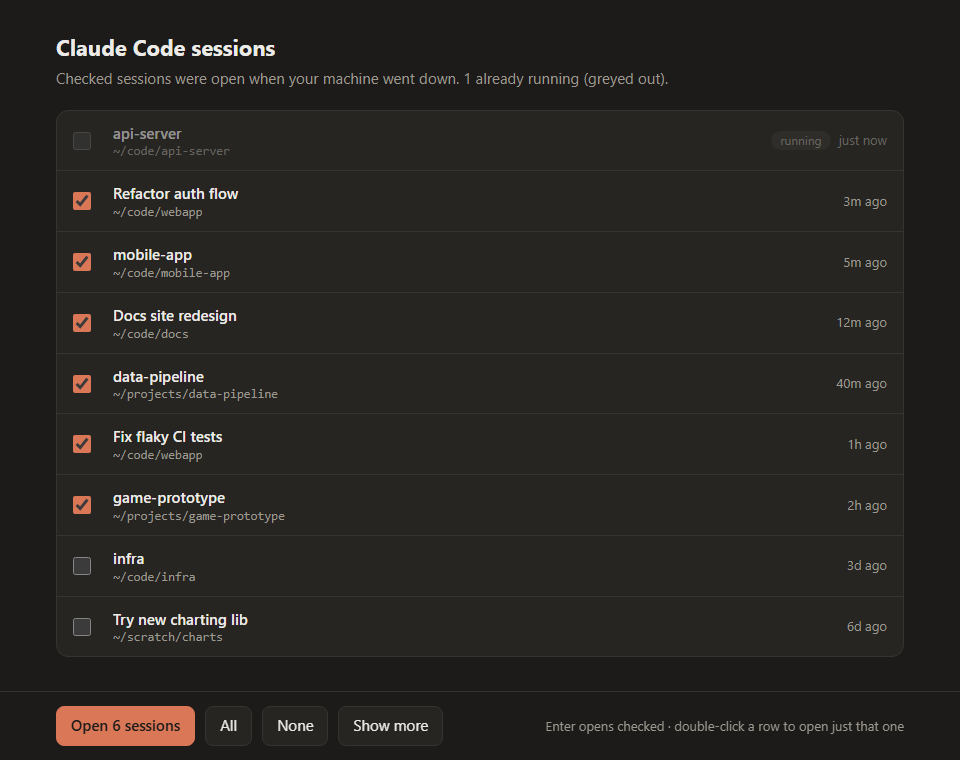
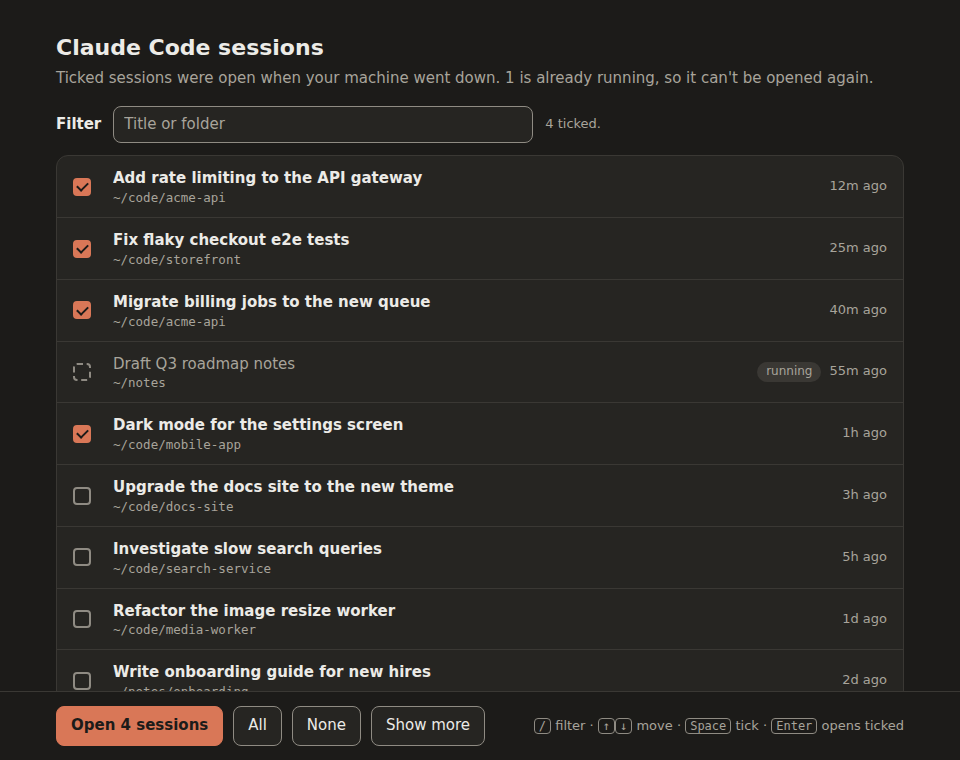
Web picker: filter box, arrow-key navigation, accessibility pass (#7)
- Filter box over title and folder; `/` focuses it, Esc clears it.
  Hidden rows stay ticked and the Open button counts them.
- The list is a multi-select listbox with roving focus: Up/Down/Home/End
  move, Space ticks, Enter opens (still only from the page or a row, and
  never while an open is in flight).
- Status and errors go to aria-live regions; the result screen takes focus.
- Colours re-picked for WCAG AA in both themes; visible focus rings.
- No inline handlers or external resources; the token logic from #17 is
  unchanged.
- Regenerate the README screenshots from fake demo data.
- Fix the test_localhost_origin_succeeds teardown race: skip the extra
  POST once a test has opened sessions and just join the server thread.

diff --git a/tests/test_gui_security.py b/tests/test_gui_security.py
@@ -78,10 +78,15 @@ class GuiSecurityTest(unittest.TestCase):
         self.assertNotEqual(self.token, "__CCSR_TOKEN__")
 
     def stop_server(self):
-        # A valid open ends the server loop; it also shows rejected requests didn't use up the open.
-        if self.thread.is_alive():
-            self.request("POST", "/api/open", json.dumps({"ids": []}), self.good_headers())
-            self.thread.join(10)
+        # A valid open ends the server loop. If the test already opened sessions, the
+        # server is shutting down, and another POST could hit a closing socket
+        # (ConnectionResetError), so just wait for it.
+        if not self.launched:
+            # Nothing opened yet: this open must succeed, which also shows rejected
+            # requests didn't use up the one open.
+            status, _, _ = self.request("POST", "/api/open", json.dumps({"ids": []}), self.good_headers())
+            self.assertEqual(status, 200)
+        self.thread.join(10)
         self.assertFalse(self.thread.is_alive())
 
     def request(self, method, path, body=None, headers=None):

diff --git a/README.md b/README.md
@@ -54,9 +54,11 @@ If you cloned it, it's also handy on your PATH: `ln -s "$PWD/cc-session-restore"
 
 Open **Claude Code sessions**, or run `cc-session-restore --gui`. A page opens in your browser:
 
-- **Checked** sessions were open when the machine went down. Click **Open** (or press Enter) to reopen them.
-- **Greyed-out** sessions are already running, so they can't be opened twice.
-- Click a row (or press Space on it) to toggle it. **Double-click** a row to open just that one session.
+- **Ticked** sessions were open when the machine went down. Click **Open** (or press Enter) to reopen them.
+- Sessions marked **running** are already open, so they can't be opened twice.
+- Click a row (or press Space on it) to tick or untick it. **Double-click** a row to open just that one session.
+- Type in **Filter** (or press `/`) to show only sessions whose title or folder matches. Esc clears it. Hidden rows stay ticked, and the **Open** button says how many of them are hidden.
+- Up and Down move between rows, and Home and End jump to the first and last.
 - If a session fails to open, the page says which one and why.
 
 The page is served on `127.0.0.1` only. Its link works once and is swapped for a private cookie. That first load also gives the page a second per-run secret, kept only in that browser tab, which every request must carry. Browsers share cookies across local ports, so a server on another port could receive the cookie, but without the secret it can't list or open sessions. The page can't be shown in a frame on another site. It shuts down after you open sessions, or after 15 minutes idle.
